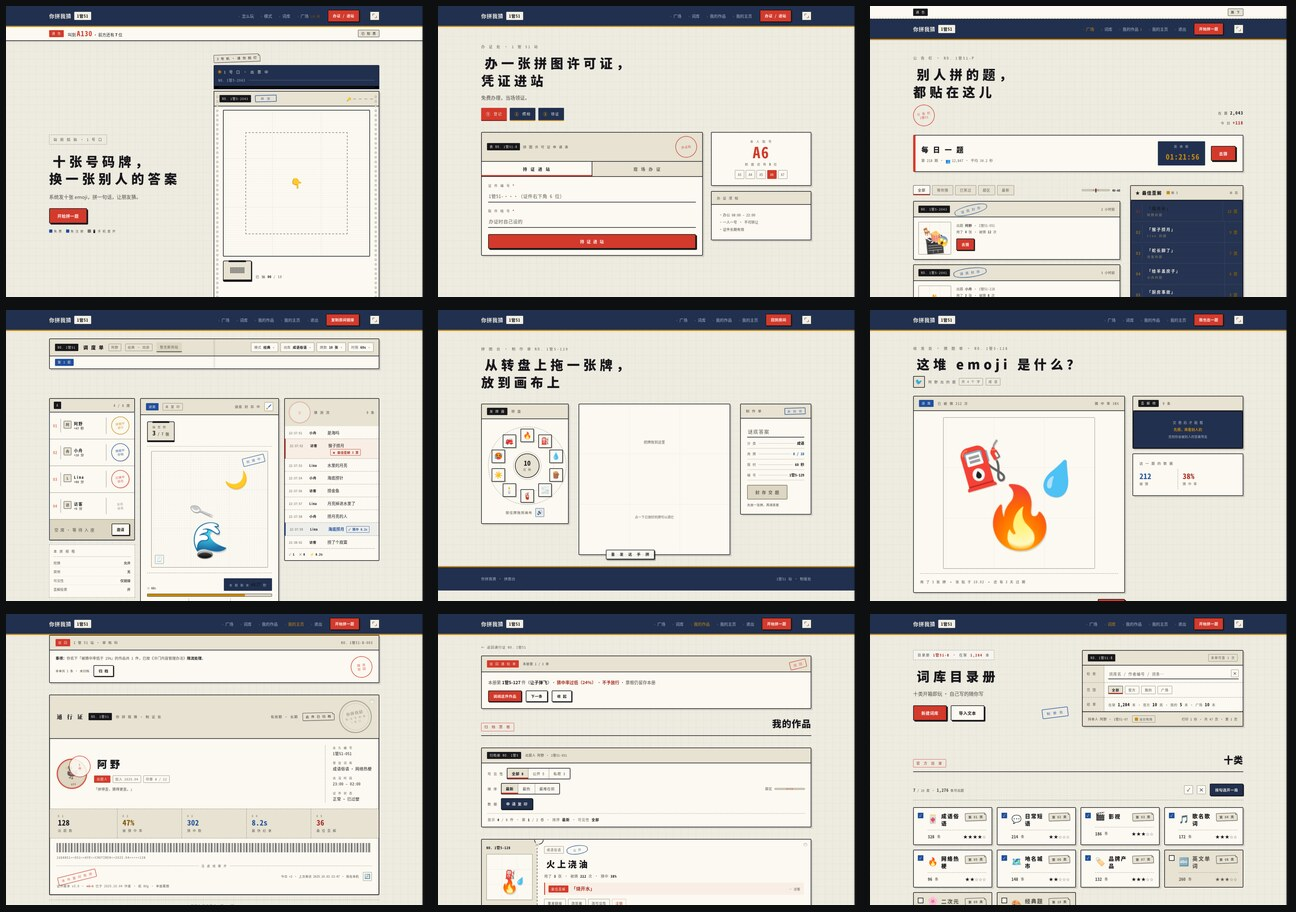
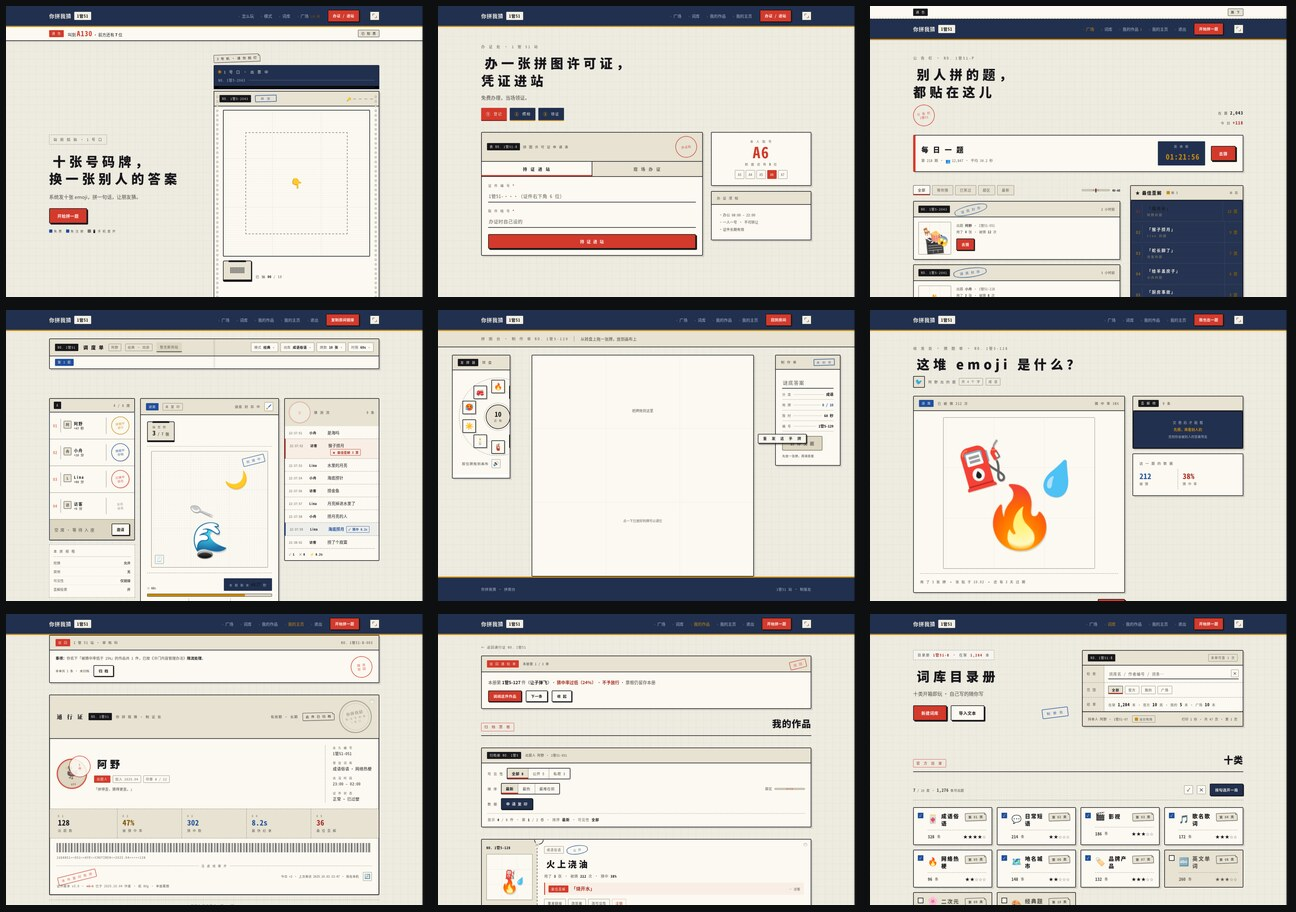
画布页优先给画布：compose 画布 520 → 662（1440）/ 842（1920），且不再滚动
用户：「只要是涉及到画布的页面都尽量让它盛满整个页面，因为画布要放大才好操作」

实测瓶颈是**宽度**不是高度：画布 520 宽，而工作台有 584 高 —— 高度还空着 250px。

## 三处改动

① **抬头 224px → 56px 横带**（只装三件信息：台名/单号/一句提示）
② **骨架改 flex**：站牌与抬头固定，main 吃剩余高度，bench 撑满 main
   `body{overflow:hidden}` —— 画布页不滚
③ **两轨收窄 + 工作台放宽**：左轨 300→200、右轨 244→224、gap 22→16、
   `.bench{max-width:min(1600px,100% - 48px)}`（比全站 wrap 1180 宽）
④ 画布仍用 `min(100cqw,100cqh)`，由高度决定

## 结果

  1280x800   562x562  占视口高 70%
  1440x900   662x662  占视口高 74%   （最初 520）
  1680x1050  812x812  占视口高 77%
  1920x1080  842x842  占视口高 78%   （最初 520，+62%）
  全部不滚动（改前 1440 要滚 64px）

## 顺带解决评委点名三轮的那个「渲染事故」

「重发这手牌」原来挂在画布下方，与画布争同一段高度 ——
flex 列里它被压成 **0 高**，内容溢出、骑在画布下边框上（偏左 82px）。

我先试了 `flex:0 0 auto`（无效）、再试 grid 两行（auto 行仍拿不到高度），
最后发现**它本来就不该在那儿**：「重发这手牌」是**制作单上的动作**，
移到制作单面板里，按钮是普通块、画布列只剩一个元素，尺寸计算不再有歧义。

这三轮我一直在调它的位置，而正确解法是换它该在的地方。

Changed region(s): [[0.3395, 0.3684, 0.679, 0.6754], [0.4938, 0.4298, 0.5247, 0.4605]]

diff --git a/app/compose.html b/app/compose.html
@@ -18,8 +18,16 @@
    ④ 缩放 / 旋转 / 图层都由控制点决定，不用滑杆
    ============================================================ */
 
-.head{padding:46px 0 6px}
-.head h1{margin:12px 0 14px}
+/* 抬头压成一条 56px 横带。
+   原来 224px（padding 46 + 两行大标题），占屏幕 25%，而它只装三件信息
+   （台名 / 单号 / 一句操作提示）。画布页的抬头不该是一块版位，该是一条状态带。 */
+.head{flex:0 0 auto;height:56px;padding:0;background:var(--paper-2);
+  border-bottom:2px solid var(--ink);display:flex;align-items:center}
+.head .wrap{display:flex;align-items:center;gap:18px;height:100%;flex:1 1 auto;min-width:0}
+.head .lbl-lg{white-space:nowrap;flex:0 0 auto}
+.head h1{margin:0;font-size:13.5px;font-weight:400;color:var(--ink-2);letter-spacing:.02em;
+  border-left:1.5px solid var(--ink-4);padding-left:18px;white-space:nowrap;
+  overflow:hidden;text-overflow:ellipsis}
 
 /* 子元素解除 min-width 下限：grid 的 1fr 是 minmax(auto,1fr)，
    那个 auto 等于内容的 min-content，窄屏下列会被顶住不缩。 */
@@ -63,15 +71,52 @@
 .wheel-note{margin-top:12px;display:flex;gap:10px;justify-content:center;align-items:center}
 
 /* ---------- 画板 ---------- */
-.canvas-box{min-width:0}
 
+/* ══ 画布页的工作台骨架 ══
+   用户要求：「涉及到画布的页面都尽量让它盛满整个页面，因为画布要放大才好操作」。
+   实测瓶颈是**宽度**不是高度：画布 520 宽，而工作台有 584 高 —— 高度还空着 250px。
+   所以要收窄两轨、放宽工作台，让画布由高度决定。
+
+   不写 calc(100dvh - Npx) 的魔数：数字一改就悄悄错位，flex 不会。 */
+html,body{height:100%}
+body{display:flex;flex-direction:column;overflow:hidden}
+body>.nav{flex:0 0 auto}
+main{flex:1 1 auto;min-height:0;display:flex;flex-direction:column}
+/* ⚠ .wrap 带 margin:0 auto —— 放进 flex 容器后 auto margin 会吸收自由空间、
+   使 align-self:stretch 失效，元素退化成 fit-content。
+   （当初 .bay 踩的同一个坑：宽度随内容变，画布列连锁塌陷。） */
+main>*{width:100%}
+
+.bench{flex:1 1 auto;min-height:0;align-items:start;
+  grid-template-columns:minmax(0,200px) minmax(0,1fr) minmax(0,224px);gap:16px;
+  max-width:min(1600px,100% - 48px)}   /* 比全站 wrap(1180) 宽 —— 画布页优先给画布 */
+.bench>*{min-height:0}
+.bench .canvas-box{align-self:stretch}   /* 只有画布那列撑满高度，两条轨道保持自然高度 */
+.bench .sheet.wheel-box,.bench .sheet.order{overflow:auto}
+
+/* 画布列**只有画布**。
+   「重发这手牌」已移到制作单 —— 它本来就是制作单上的动作。
+   此前它挂在画布下方，与画布争同一段高度，被压成 0 高、溢出到画布边框上
+   （K3 连续三轮点名的那个「渲染事故」：按钮偏左 82px、骑在下边框上）。
+   移进制作单之后：按钮是面板里的普通块，画布列只剩一个元素，尺寸计算不再有歧义。 */
+.canvas-box{min-height:0;min-width:0;overflow:hidden}
+.canvas-fit{height:100%;min-height:0;min-width:0;container-type:size;
+  display:grid;place-items:center;overflow:hidden}
+/* 画布取盒子里能放下的最大正方形。
+   为什么要 cqw/cqh：只给 max-height，浏览器不会拿它反推宽度
+   （1440x620 下会得到 544x368 的长方）；只给 height:100%+width:auto，
+   盒子偏高时又会被 max-width 截成非正方形。cqw/cqh 是唯一能直接表达「两轴取小」的单位。 */
 /* 「重发这手牌」必须相对**画布**居中。
    原来它左对齐在 .canvas-box 里：画布中心 515，按钮中心 458，偏左 57px，
    而且底边距页脚琥珀线只有 4px —— 读起来是渲染事故，不是设计。 */
-.canvas-box .btn-row{justify-content:center}
-.canvas-box{padding-bottom:24px}
+/* 按钮行在画布**下方**，与画布之间 14px（flex gap），不再压在边框上。 */
+/* ⚠ flex:0 0 auto 不能省。默认 flex-shrink:1，而 .canvas-fit 是 flex:1 1 auto，
+   两者争夺同一段高度时按钮行被压成 0 高 —— 它的内容于是溢出、
+   骑到画布的下边框上（K3 点过三次的那个「渲染事故」）。 */
 
-.canvas{position:relative;width:100%;max-width:520px;aspect-ratio:1/1;margin:0 auto;
+.canvas{position:relative;width:min(100cqw,100cqh);height:min(100cqw,100cqh);
+  aspect-ratio:1/1;margin:0;   /* 取盒子里能放下的最大正方形 */
+  
   overflow:hidden;background:var(--paper-4);border:2px solid var(--ink);border-radius:var(--rad);
   box-shadow:var(--sh-soft);touch-action:none;
   background-image:
@@ -140,6 +185,20 @@
 .od .d{flex:1;border-bottom:1px dotted var(--ink-4);transform:translateY(-4px)}
 .od b{color:var(--ink);white-space:nowrap}
 .od b.blue{color:var(--blue)}
+
+/* ⚠ 必须排在所有基础规则之后：媒体查询不提升优先级，同权重下靠后的赢。 */
+@media(max-width:900px){
+  html,body{height:auto}
+  body{display:block;overflow:auto}
+  main{display:block}
+  .head{height:auto;padding:12px 0}
+  .bench{display:grid;height:auto;min-height:0;flex:none;
+    grid-template-columns:minmax(0,1fr);gap:14px;max-width:none}
+  .canvas-box{display:block;overflow:visible}
+  .canvas-fit{container-type:normal;display:block;overflow:visible}
+  .canvas{width:100%;height:auto;max-width:560px;margin:0 auto}
+  .bench .canvas-box{order:-1}
+}
 </style>
 <link rel="manifest" href="manifest.webmanifest">
 <meta name="theme-color" content="#22304F">
@@ -171,7 +230,7 @@
 <section class="head">
   <div class="wrap">
     <span class="lbl-lg">拼 图 台 · 制 作 单 NO. 1管5-129</span>
-    <h1 class="tk">从转盘上拖一张牌，<br>放到画布上</h1>
+    <h1 class="tk">从转盘上拖一张牌，放到画布上</h1>
   </div>
 </section>
 
@@ -204,11 +263,13 @@
 
   <!-- ================= 画板 ================= -->
   <div class="canvas-box">
+    <!-- 尺寸容器：把「画布」与「按钮行」分开。
+         原来两者是 .canvas-box 的同级子元素，配 place-items:center 会**重叠** ——
+         按钮骑在画布下边框上（K3 点过三次）。 -->
+    <div class="canvas-fit">
     <div class="canvas" id="canvas">
       <div class="ph" id="ph">把牌拖到这里<br><span style="font-size:11px">点一下已放好的牌可以调它</span></div>
     </div>
-    <div class="btn-row" style="justify-content:center;margin-top:14px">
-      <button class="btn sm ghost" id="resetBtn">重 发 这 手 牌</button>
     </div>
   </div>
 
@@ -227,6 +288,7 @@
       <div class="od"><span class="k">限 时</span><span class="d"></span><b>60 秒</b></div>
       <div class="od"><span class="k">编 号</span><span class="d"></span><b>1管5-129</b></div>
       <div class="btn-row" style="margin-top:16px">
+      <button class="btn sm ghost" id="resetBtn">重 发 这 手 牌</button>
         <button class="btn" id="fileBtn" disabled>封 存 交 题</button>
       </div>
       <div class="hint" style="margin-top:10px" id="fileHint">先放一张牌，再填答案</div>
